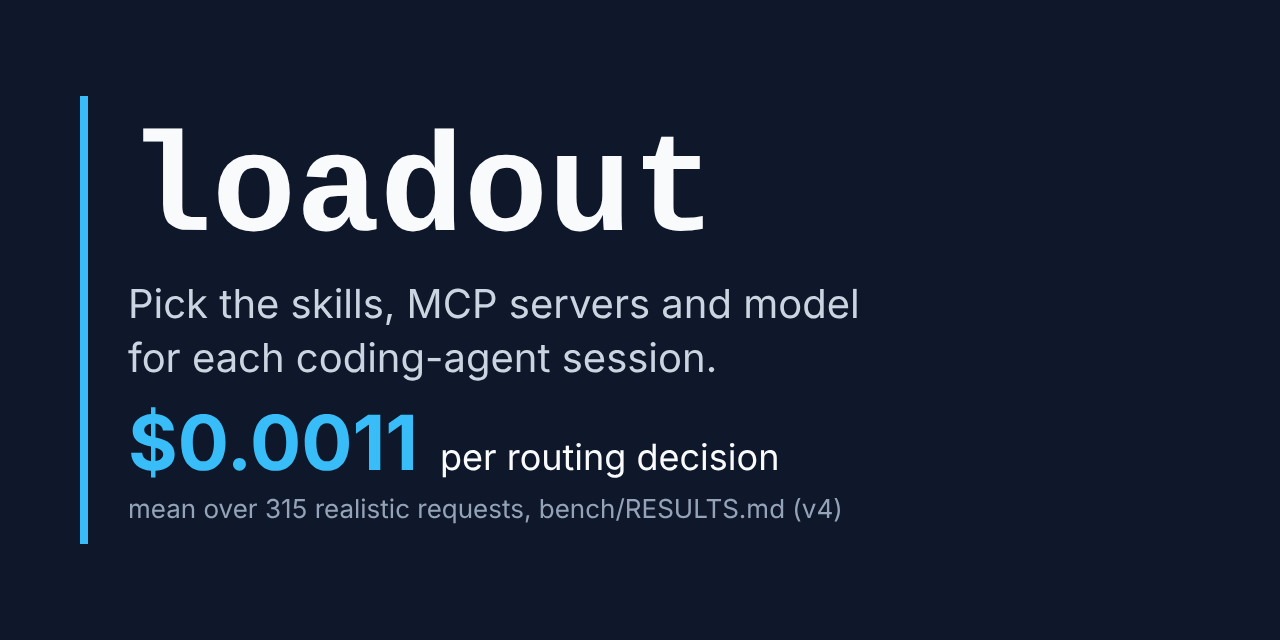
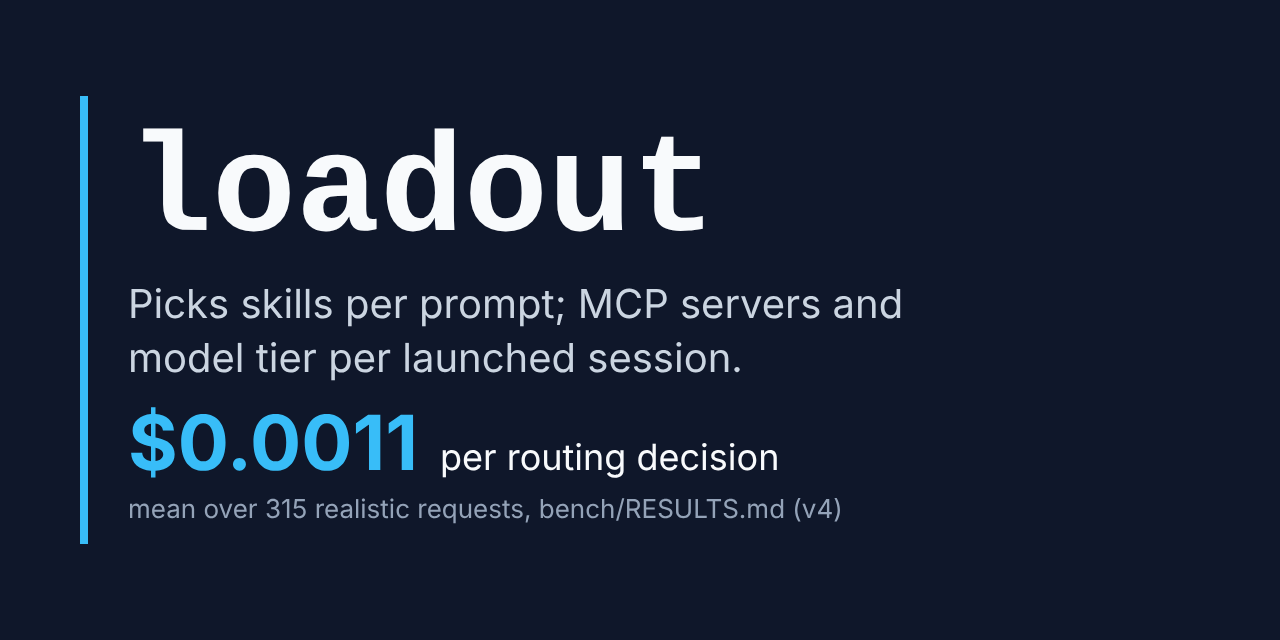
B4: scope each claim to what was measured or built
- CHANGELOG: B1 is the Claude Code input-token increase with generated names,
  and Codex only an offline count. C1's result is on its 201-request test
  split. The pre-PR features now include load_skill, the gateway, HTTP with a
  token, `setup` and `list --sources`. #23's install was only checked offline.
  #24's cache covers every routing path. #1 also added the PR template. #22
  is dropped, matching the omitted backlog-only #17.
- Description: it names the Claude Code hook only, since the Codex hook is
  untested live (D2), and says the launcher also picks skills. The tier
  reaching the agent is marked untested.
- Social preview: the tagline was "skills, MCP servers and model for each
  session". It now scopes skills per prompt and servers and tier per launched
  session. PNG re-rendered at 1280 x 640.
- Topics note: one count no longer spans three topics. A BACKLOG learning
  that repeated repo-settings.md is removed.

Claude-Session: https://claude.ai/code/session_01HuyR49tfEGYja23caRY2JK

Changed region(s): [[0.1562, 0.4375, 0.7188, 0.5], [0.0938, 0.5312, 0.5938, 0.5938]]

diff --git a/CHANGELOG.md b/CHANGELOG.md
@@ -6,24 +6,25 @@
 
 - Jev-routed selection: skills, MCP servers and model tier per launched session
   (`loadout route`, the launcher), skills per prompt (a prompt hook for Claude
-  Code and Codex), and skill search (`loadout mcp`). These came in direct
-  commits before PRs were used.
+  Code and Codex), skill search and loading plus an opt-in gateway to library
+  MCP servers (`loadout mcp`, also over HTTP with a token for remote hosts),
+  `loadout setup <host>` config printing, and `loadout list --sources`. These
+  came in direct commits before PRs were used.
 - `loadout audit`: an inventory estimate of your installed skill listings, before host caps ([#3](https://github.com/erik-hedstrom/loadout/pull/3)).
 - `loadout doctor`, a read-only setup check ([#20](https://github.com/erik-hedstrom/loadout/pull/20)).
-- Claude Code plugin with the prompt hook ([#9](https://github.com/erik-hedstrom/loadout/pull/9)) and a Codex plugin carrying the hook and search server, installed offline, with a live run pending under D2 ([#23](https://github.com/erik-hedstrom/loadout/pull/23)).
+- Claude Code plugin with the prompt hook ([#9](https://github.com/erik-hedstrom/loadout/pull/9)) and a Codex plugin carrying the hook and search server (install checked offline; the hook needs /hooks trust; a live run is pending under D2) ([#23](https://github.com/erik-hedstrom/loadout/pull/23)).
 - Host capability matrix ([#18](https://github.com/erik-hedstrom/loadout/pull/18)) and host-neutral session skills ([#21](https://github.com/erik-hedstrom/loadout/pull/21)).
 - Judge backends for Claude and offline files, and a Codex backend that refuses to run while the Codex CLI keeps its exec tools on, as codex-cli 0.160.1 does (backlog E12) ([#5](https://github.com/erik-hedstrom/loadout/pull/5)).
-- Measurements: what installed skills cost per request ([#6](https://github.com/erik-hedstrom/loadout/pull/6); [B1 results](bench/RESULTS.md#b1-results-2026-10-07-what-installed-skills-cost-per-request)), routing re-measured after the Jev framing change ([#7](https://github.com/erik-hedstrom/loadout/pull/7)), and 300 new held-out requests where recall holds and precision falls ([#16](https://github.com/erik-hedstrom/loadout/pull/16); [C1](bench/RESULTS.md#c1-2026-10-08-new-held-out-requests)).
-- Apache-2.0 license, NOTICE, CONTRIBUTING, SECURITY and issue templates ([#1](https://github.com/erik-hedstrom/loadout/pull/1)).
+- Measurements: the Claude Code input-token increase from installed skill listings in fresh sessions, with generated skill names, and for Codex only an offline rendered-prompt count ([#6](https://github.com/erik-hedstrom/loadout/pull/6); [B1 results](bench/RESULTS.md#b1-results-2026-10-07-what-installed-skills-cost-per-request)), routing re-measured after the Jev framing change ([#7](https://github.com/erik-hedstrom/loadout/pull/7)), and 300 new held-out requests, where on their 201-request test split recall holds and precision falls ([#16](https://github.com/erik-hedstrom/loadout/pull/16); [C1](bench/RESULTS.md#c1-2026-10-08-new-held-out-requests)).
+- Apache-2.0 license, NOTICE, CONTRIBUTING, SECURITY, and issue and PR templates ([#1](https://github.com/erik-hedstrom/loadout/pull/1)).
 - GitHub Actions CI on Ubuntu, macOS and Windows, Node 22 and 24 ([#2](https://github.com/erik-hedstrom/loadout/pull/2)).
 
 ### Changed
 
 - Prompt-hook follow-ups skip hook start-up, and the relay loads on demand ([#14](https://github.com/erik-hedstrom/loadout/pull/14)).
-- Parsed library metadata is cached for routed prompts ([#24](https://github.com/erik-hedstrom/loadout/pull/24)).
+- Routing (`loadout route`, the launcher, the prompt hook and `loadout mcp`) caches parsed library metadata and re-parses only changed manifests ([#24](https://github.com/erik-hedstrom/loadout/pull/24)).
 - Simplified `src/` ([#12](https://github.com/erik-hedstrom/loadout/pull/12)), `bench/` ([#11](https://github.com/erik-hedstrom/loadout/pull/11)) and the docs ([#15](https://github.com/erik-hedstrom/loadout/pull/15)).
 - CI runs the full matrix only on PRs labelled `ci-full` ([#13](https://github.com/erik-hedstrom/loadout/pull/13)).
-- Contributor and agent docs: the stock `claude` and `codex` CLIs come first ([#22](https://github.com/erik-hedstrom/loadout/pull/22)).
 
 ### Fixed
 

diff --git a/docs/launch/repo-settings.md b/docs/launch/repo-settings.md
@@ -6,12 +6,13 @@ preview image are Erik's ([AGENTS.md](../../AGENTS.md) hard rule 4).
 ## Description
 
 ```
-Picks skills for each Claude Code or Codex prompt, and MCP servers and model tier per launched session, routed by Jev.
+Picks skills for each Claude Code prompt, and skills, MCP servers and model tier for each session it launches, using Jev.
 ```
 
-118 characters (GitHub allows 350). The prompt hook routes skills only; MCP
-servers and the model tier apply when the launcher starts a session
-([docs/hosts.md](../hosts.md)). It makes no claim a benchmark has to back.
+121 characters (GitHub allows 350). The prompt hook routes skills only; MCP
+servers and the model tier are chosen when the launcher starts a session, and
+the tier reaching the agent is untested ([docs/hosts.md](../hosts.md), note 2).
+The Codex hook is left out until a live run checks it (backlog D2). It makes no claim a benchmark has to back.
 Leave the website field empty until there is a page to point to.
 
 ## Topics
@@ -34,9 +35,9 @@ affects who finds loadout is not measured.
 | `developer-tools` | not checked | A general tag for a CLI people install. |
 | `typescript` | not checked | The implementation language. |
 
-11 topics, within GitHub's limit of 20. Skipped: the broader `llm`,
-`claude` and `codex` (39,141 repos); `codex-cli` is the narrower choice for
-Codex.
+11 topics, within GitHub's limit of 20. Skipped: the broader `llm` and
+`claude` (not counted), and `codex` (39,141 repos), where `codex-cli` is the
+narrower choice.
 
 ## Steps for Erik
 
@@ -53,8 +54,8 @@ Codex.
 The image's one figure, `$0.0011 per routing decision`, is from
 [v4](../../bench/RESULTS.md#v4-2026-10-06-realistic-requests-on-the-real-library-judged),
 315 realistic requests. On C1's 300 new requests the mean was $0.0012
-([C1](../../bench/RESULTS.md#c1-2026-10-08-new-held-out-requests)), so edit
-both files if you would rather show a range. To change the image, edit the SVG
-and render it again at an exact 1280 x 640 viewport, for example with
+([C1](../../bench/RESULTS.md#c1-2026-10-08-new-held-out-requests)); change
+the figure if you would rather show a range. To change the image, edit the SVG
+and render the PNG again at an exact 1280 x 640 viewport, for example with
 Puppeteer's `page.setViewport` and `page.screenshot`; Chrome's
 `--window-size` flag leaves a blank strip at the bottom.

diff --git a/docs/loop/BACKLOG.md b/docs/loop/BACKLOG.md
@@ -172,8 +172,6 @@ README and `CHANGELOG.md` (Unreleased only). Left for Erik: apply the settings
 and upload the preview.
 
 Learnings:
-- The preview's one figure is v4's $0.0011 per decision. C1's mean is $0.0012,
-  so the image shows v4 and says so.
 - The CHANGELOG has no version section while A4 (npm) and E5 (release
   automation) are open.
 
